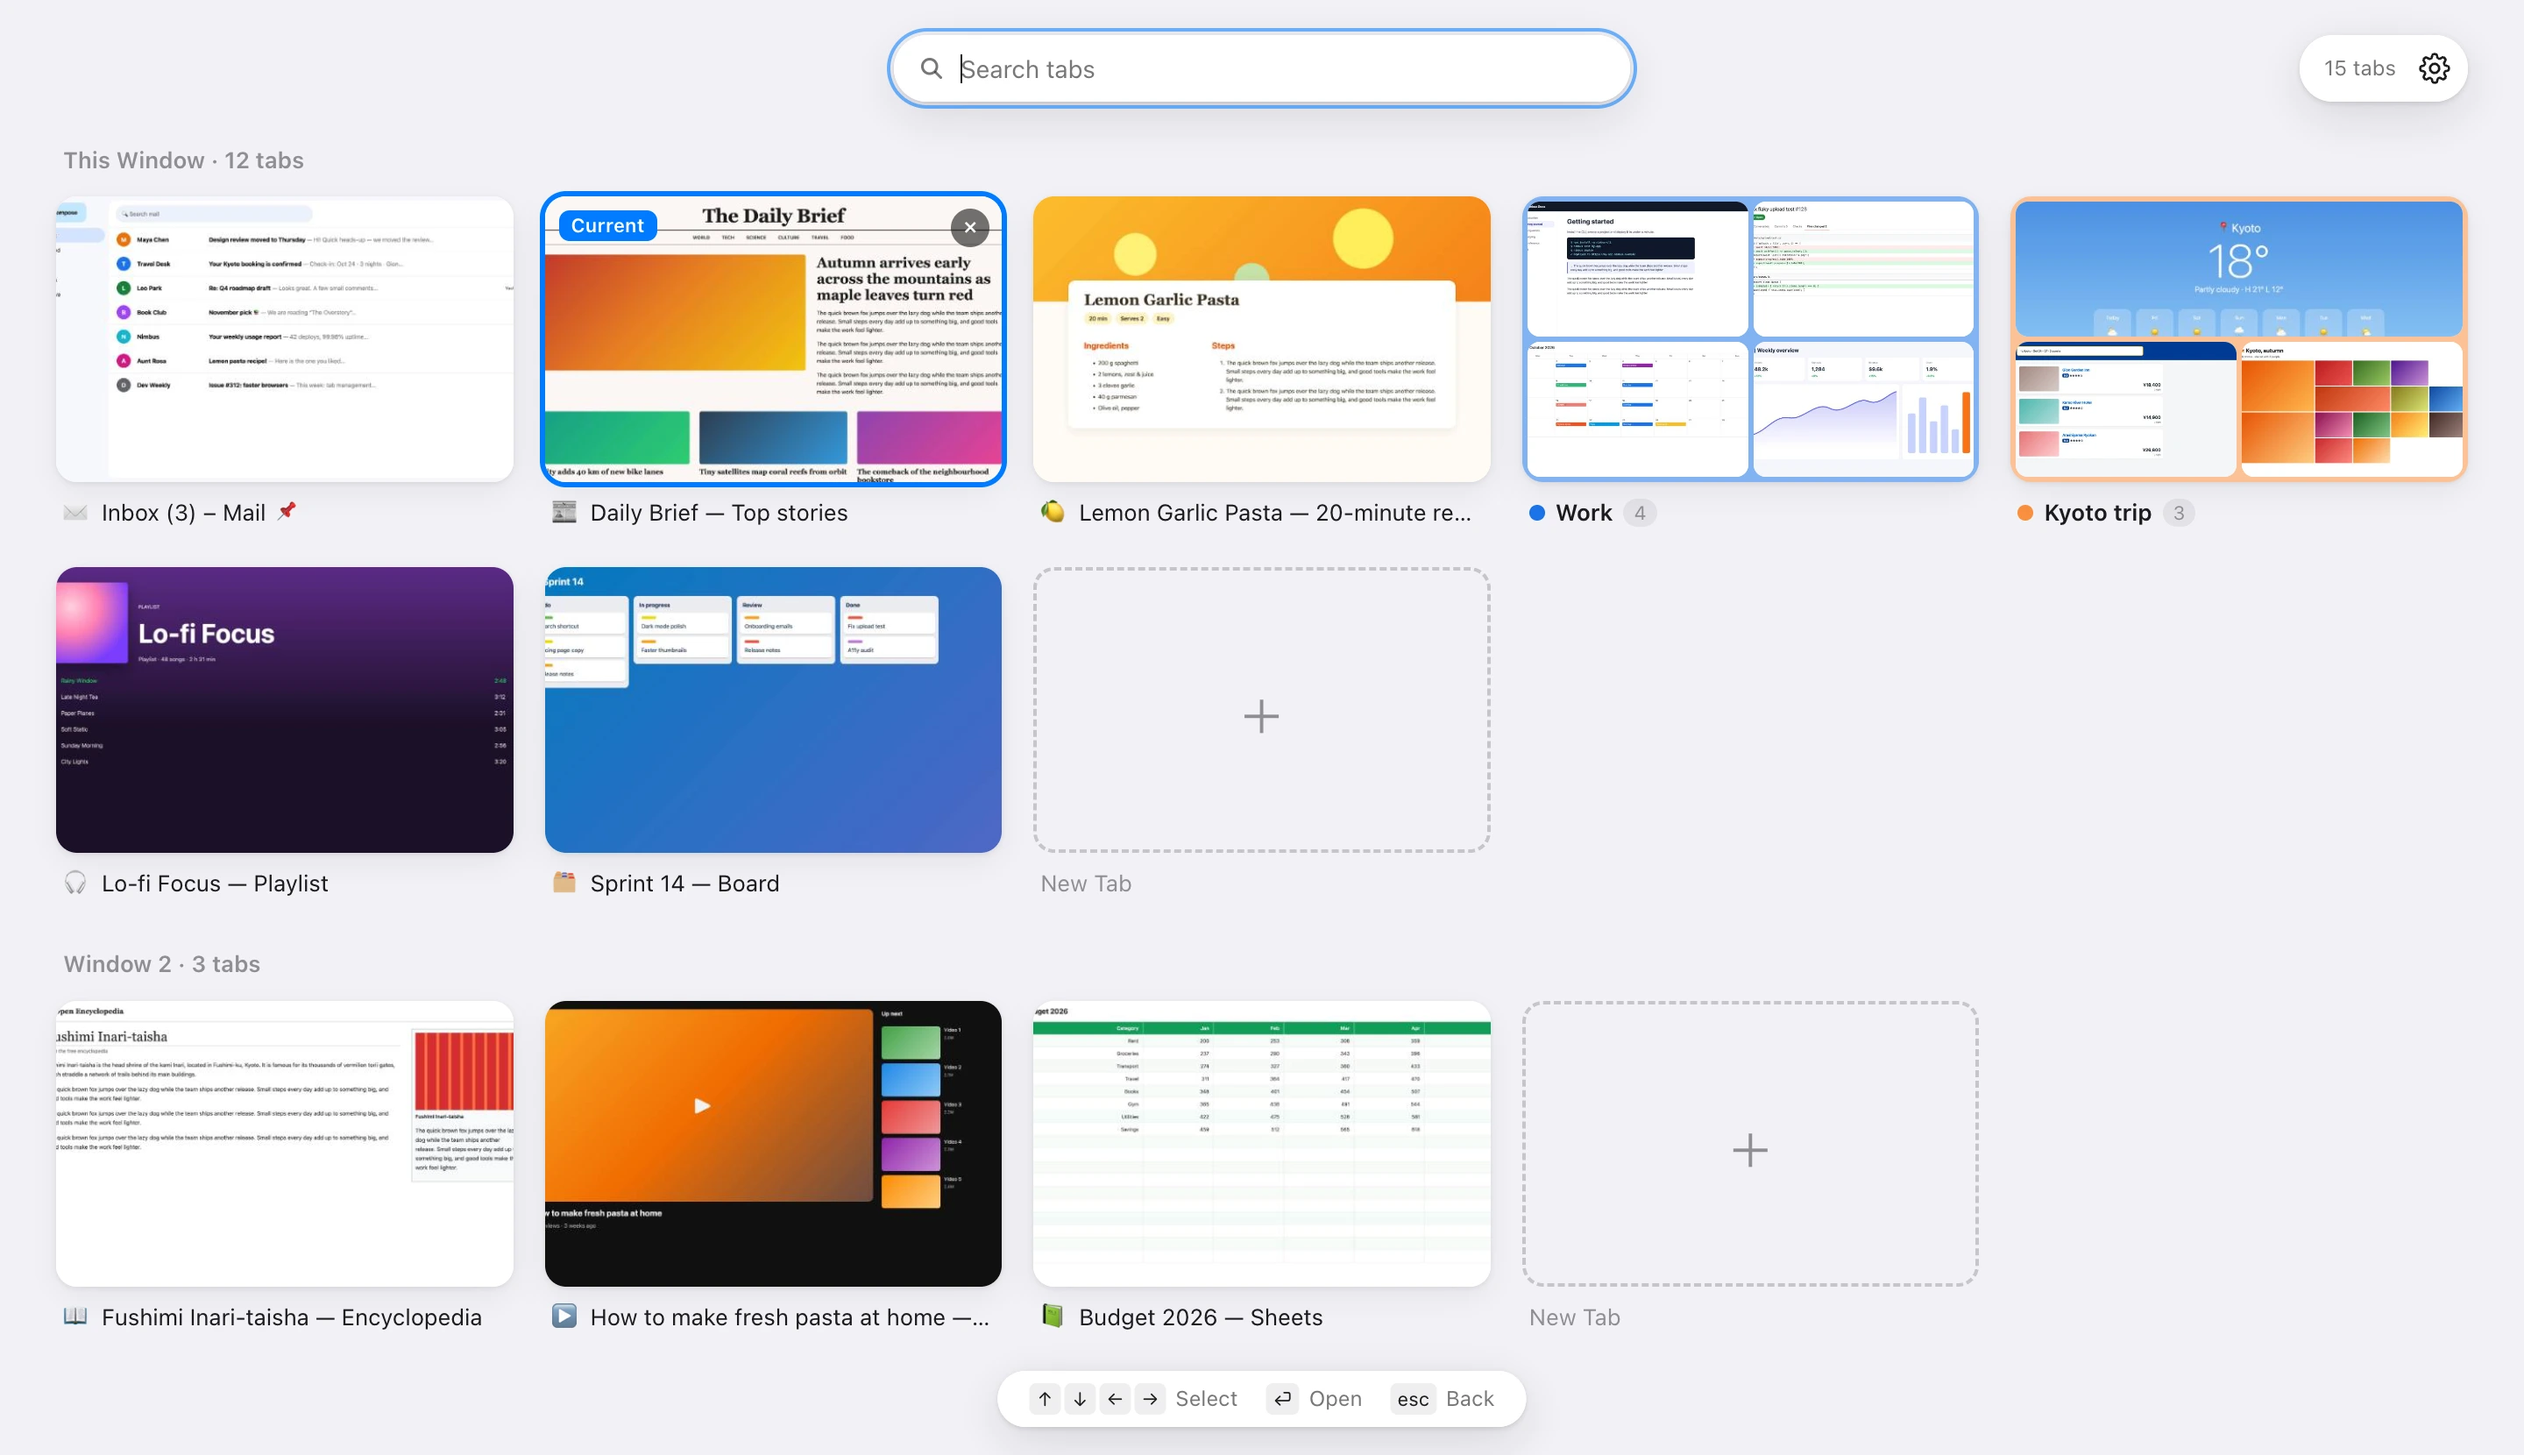
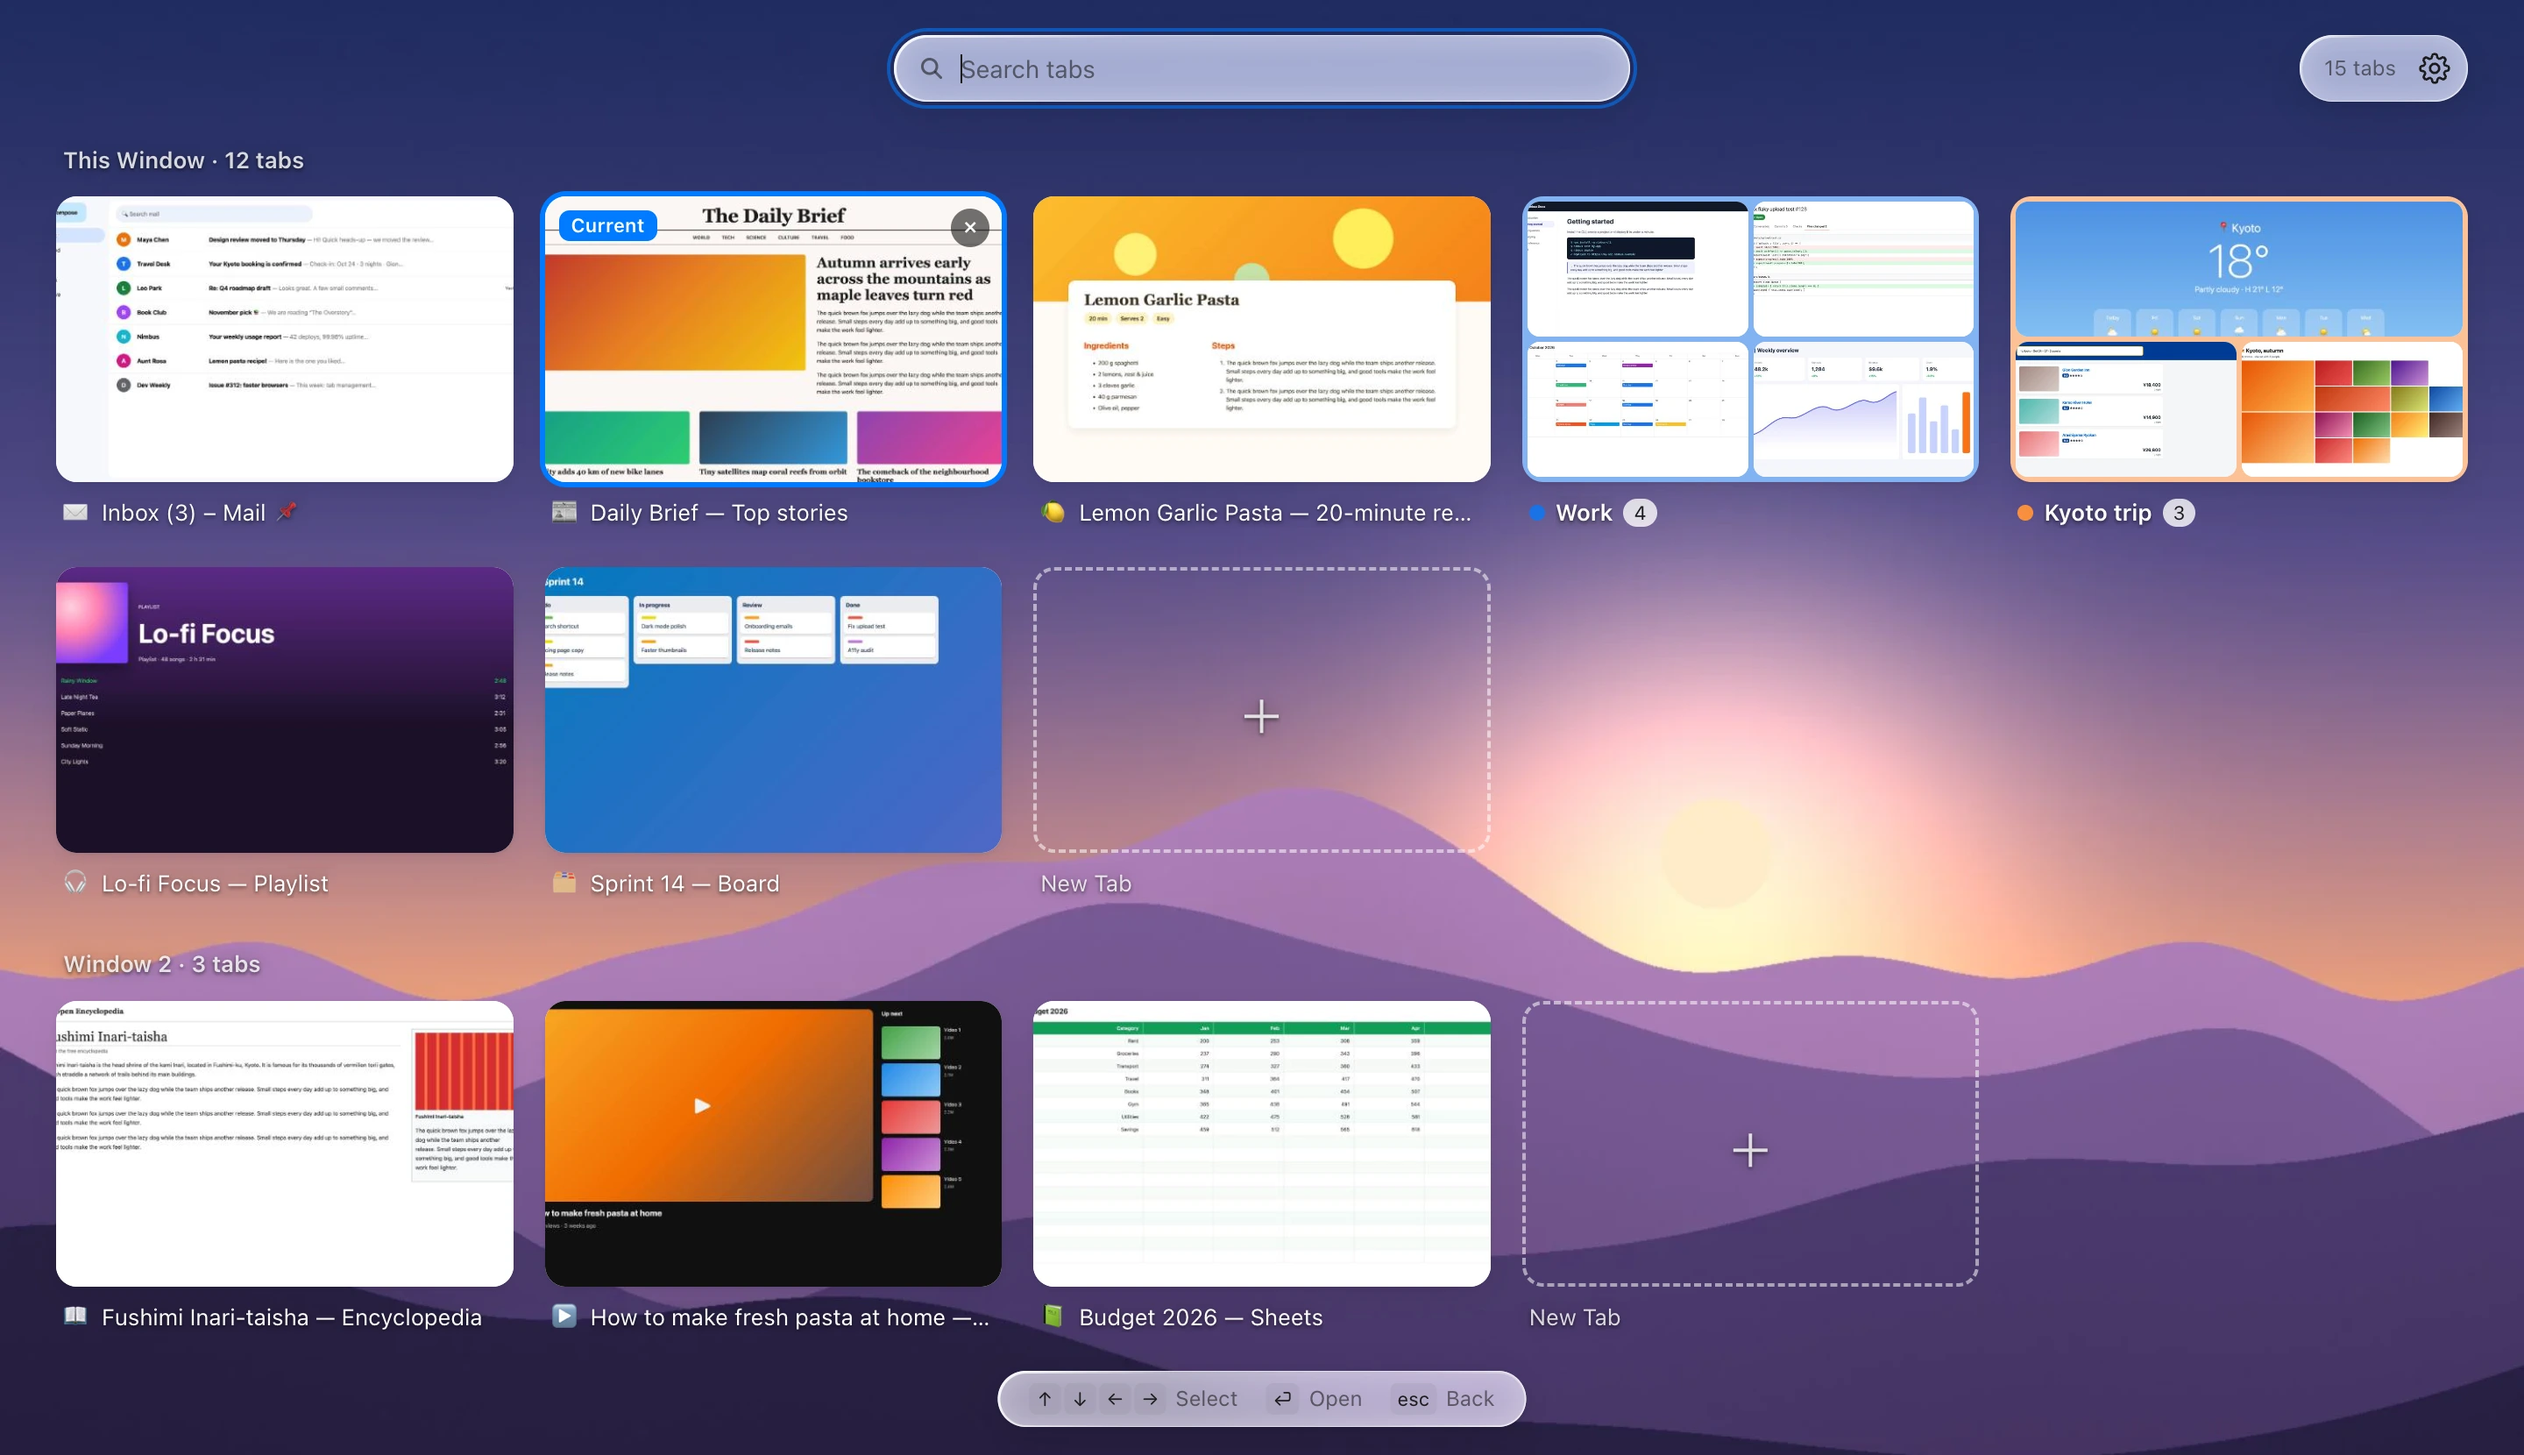
README: render every screenshot over the same background picture
The generator now sets the demo background before taking any screenshot,
so the glass looks the same in all of them; the search and group images
are cropped from the same full-size window, so they show the same part
of the picture. Notes in both READMEs say the screenshots use it.

diff --git a/tools/screenshots/render.js b/tools/screenshots/render.js
@@ -2,8 +2,8 @@
 //
 // It loads the extension (with page thumbnails turned on) into a throwaway Chrome
 // profile, opens a set of fictional demo sites (demo-sites.js) in two windows,
-// lets the extension capture them, then photographs the overview page. The
-// background picture (demo-background.jpg) is generated art, free to use.
+// lets the extension capture them, sets a background picture (demo-background.jpg,
+// generated art that's free to use) and photographs the overview page.
 //
 //   npm install
 //   npm run screenshots              # both languages
@@ -164,12 +164,22 @@ async function render(lang, base) {
     const overview = await (await browser.waitForTarget((t) => t.url().startsWith(env.overviewUrl))).page();
     await overview.waitForSelector('.card');
     await overview.setViewport({ width: 1440, height: 830, deviceScaleFactor: 2 });
+
+    // Every screenshot shows the overview over the same background picture, chosen
+    // the way a user would, so the glass looks the same in all of them.
+    await overview.click('#settings-btn');
+    const [chooser] = await Promise.all([overview.waitForFileChooser(), overview.click('#bg-thumb')]);
+    await chooser.accept([BACKGROUND]);
+    await overview.waitForFunction(() => document.getElementById('backdrop').style.backgroundImage.includes('blob:'));
+    await overview.keyboard.press('Escape'); // closes the settings
     await overview.mouse.move(8, 8); // keep the pointer off the cards
     await sleep(1200); // let the entrance animation finish
 
     const missing = await overview.evaluate(() => document.querySelectorAll('[data-tab]:not(:has(img.shot))').length);
     if (missing) console.warn(`  ${missing} tab(s) have no thumbnail yet; rerun if the images look incomplete`);
     const shoot = (name, options = {}) => overview.screenshot({ path: path.join(outDir, `${name}.webp`), ...IMAGE, ...options });
+    // The shorter images are the top of the same window, so they show the same part of the picture.
+    const top = { clip: { x: 0, y: 0, width: 1440, height: 420 } };
 
     // Set the theme explicitly: headless Chrome otherwise follows the system's.
     const theme = (value) => overview.emulateMediaFeatures([{ name: 'prefers-color-scheme', value }]);
@@ -180,18 +190,17 @@ async function render(lang, base) {
     await sleep(300);
     await shoot('overview');
 
-    await overview.setViewport({ width: 1440, height: 420, deviceScaleFactor: 2 });
     await overview.focus('#search');
     await overview.keyboard.type(SEARCH[lang]);
     await sleep(500);
-    await shoot('search');
+    await shoot('search', top);
 
     await overview.keyboard.press('Escape');
     await sleep(300);
     await overview.click('.card.group');
     await overview.mouse.move(8, 8);
     await sleep(700);
-    await shoot('group');
+    await shoot('group', top);
 
     await overview.keyboard.press('Escape');
     await sleep(400);
@@ -200,12 +209,8 @@ async function render(lang, base) {
     await sleep(700); // the panel springs open
     await shoot('settings', { clip: { x: 900, y: 0, width: 540, height: 420 } });
 
-    // A background picture, with its adjustments open.
-    const [chooser] = await Promise.all([overview.waitForFileChooser(), overview.click('#bg-thumb')]);
-    await chooser.accept([BACKGROUND]);
-    await overview.waitForFunction(() => document.getElementById('backdrop').style.backgroundImage.includes('blob:'));
+    // The background's adjustments.
     await overview.click('#bg-more');
-    await overview.setViewport({ width: 1440, height: 830, deviceScaleFactor: 2 });
     await overview.mouse.move(8, 8);
     await sleep(800);
     await shoot('background');

diff --git a/README.md b/README.md
@@ -8,7 +8,7 @@
 
 <picture>
   <source media="(prefers-color-scheme: dark)" srcset="docs/images/en/overview-dark.webp">
-  <img src="docs/images/en/overview.webp" alt="Tab Overview: every open tab as a thumbnail, grouped by window, with tab groups shown as mosaics">
+  <img src="docs/images/en/overview.webp" alt="Tab Overview: every open tab as a thumbnail, grouped by window, with tab groups shown as mosaics, over a background picture">
 </picture>
 
 ## Features
@@ -129,7 +129,7 @@ npm install
 npm run screenshots
 ```
 
-The script starts Chrome in the background with a temporary profile (your own profile isn't touched) and loads a copy of the extension from `extension/` with page thumbnails already turned on. It opens a set of fictional demo sites in two windows, lets the extension capture them, then photographs the overview. Both languages take about a minute, and the images are written to `docs/images/en/` and `docs/images/zh/`.
+The script starts Chrome in the background with a temporary profile (your own profile isn't touched) and loads a copy of the extension from `extension/` with page thumbnails already turned on. It opens a set of fictional demo sites in two windows, lets the extension capture them, sets the demo background picture, then photographs the overview. Every screenshot uses that picture, so they all look alike; without one, the overview sits on a plain light or dark page. Both languages take about a minute, and the images are written to `docs/images/en/` and `docs/images/zh/`.
 
 - Render one language only: `npm run screenshots -- --lang zh`
 - Use a different Chrome or Chromium build: `CHROME_PATH=/path/to/chrome npm run screenshots`

diff --git a/README.zh-CN.md b/README.zh-CN.md
@@ -8,7 +8,7 @@
 
 <picture>
   <source media="(prefers-color-scheme: dark)" srcset="docs/images/zh/overview-dark.webp">
-  <img src="docs/images/zh/overview.webp" alt="Tab Overview：所有标签页以缩略图显示，按窗口分区，标签页分组显示为拼图">
+  <img src="docs/images/zh/overview.webp" alt="Tab Overview：所有标签页以缩略图显示，按窗口分区，标签页分组显示为拼图，背景是一张图片">
 </picture>
 
 ## 功能
@@ -129,7 +129,7 @@ npm install
 npm run screenshots
 ```
 
-脚本会在后台用一个临时配置启动 Chrome（不会动你自己的浏览器数据），从 `extension/` 加载一份已开启页面缩略图的扩展副本，在两个窗口里打开一组虚构的演示网站，等扩展截好缩略图后，再给总览页拍照。中英文两套大约需要一分钟，图片会写入 `docs/images/en/` 和 `docs/images/zh/`。
+脚本会在后台用一个临时配置启动 Chrome（不会动你自己的浏览器数据），从 `extension/` 加载一份已开启页面缩略图的扩展副本，在两个窗口里打开一组虚构的演示网站，等扩展截好缩略图、设好演示背景图后，再给总览页拍照。所有截图都用这张背景图，风格保持一致；不设背景图时，总览页是纯浅色或纯深色的底。中英文两套大约需要一分钟，图片会写入 `docs/images/en/` 和 `docs/images/zh/`。
 
 - 只生成一种语言：`npm run screenshots -- --lang zh`
 - 使用其他 Chrome 或 Chromium：`CHROME_PATH=/path/to/chrome npm run screenshots`
